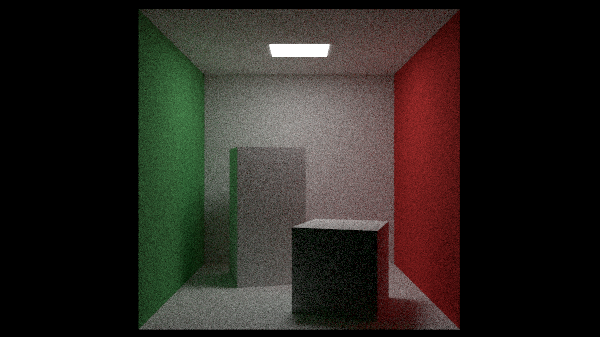
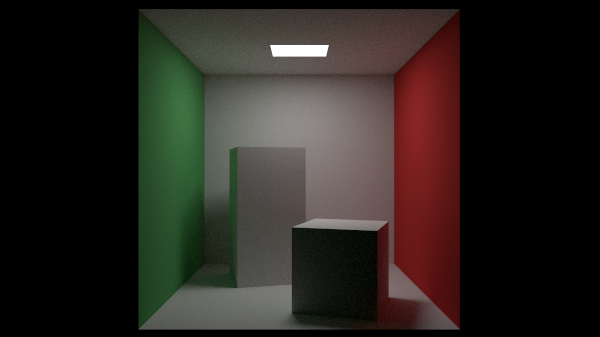
Fix Surface Acne

diff --git a/src/example/cornell_aluminum.cpp b/src/example/cornell_aluminum.cpp
@@ -13,7 +13,6 @@
 #include "texture.h"
 #include "aarect.h"
 #include "box.h"
-#include "constant_medium.h"
 
 HittableList gen_scene() {
     HittableList world;
@@ -21,21 +20,22 @@ HittableList gen_scene() {
     auto red   = std::make_shared<Lambertian>(Color(.65, .05, .05));
     auto white = std::make_shared<Lambertian>(Color(.73, .73, .73));
     auto green = std::make_shared<Lambertian>(Color(.12, .45, .15));
-    auto light = std::make_shared<DiffuseLight>(Color(7,7,7));
+    auto light = std::make_shared<DiffuseLight>(Color(15,15,15));
 
     world.Add(std::make_shared<AARect<math::Axis::kX>>(0, 555, 0, 555, 0, green));
     world.Add(std::make_shared<AARect<math::Axis::kX>>(0, 555, 0, 555, 555, red));
-    //world.Add(std::make_shared<AARect<math::Axis::kY>>(113, 443, 127, 432, 554, light));
-    world.Add(std::make_shared<FlipFace>(std::make_shared<AARect<math::Axis::kY>>(113, 443, 127, 432, 554, light)));
+    //world.Add(std::make_shared<AARect<math::Axis::kY>>(213, 343, 227, 332, 554, light));
+    world.Add(std::make_shared<FlipFace>(std::make_shared<AARect<math::Axis::kY>>(213, 343, 227, 332, 554, light)));
     world.Add(std::make_shared<AARect<math::Axis::kY>>(0, 555, 0, 555, 555, white));
     world.Add(std::make_shared<AARect<math::Axis::kY>>(0, 555, 0, 555, 0, white));
     world.Add(std::make_shared<AARect<math::Axis::kZ>>(0, 555, 0, 555, 555, white));
 
-    std::shared_ptr<Hittable> box1 = std::make_shared<Box>(Vec3f(192,165,295 + 82.5), Quaternion::AngleAxis(-15, Vec3f::up), Vec3f(82.5,165,82.5), white);
+    std::shared_ptr<Material> aluminum = std::make_shared<Metal>(Color(0.8, 0.85, 0.88), 0.0);
+    std::shared_ptr<Hittable> box1 = std::make_shared<Box>(Vec3f(192,165,295 + 82.5), Quaternion::AngleAxis(-15, Vec3f::up), Vec3f(82.5,165,82.5), aluminum);
+    world.Add(box1);
+
     std::shared_ptr<Hittable> box2 = std::make_shared<Box>(Vec3f(367,0 + 82.5,65 + 82.5), Quaternion::AngleAxis(18, Vec3f::up), Vec3f(82.5,82.5,82.5), white);
-    
-    world.Add(std::make_shared<ConstantMedium>(box1, 0.01, Color(0,0,0)));
-    world.Add(std::make_shared<ConstantMedium>(box2, 0.01, Color(1,1,1)));
+    world.Add(box2);
 
     return world;
 }
@@ -66,7 +66,7 @@ int main() {
     );
 
     auto lights = std::make_shared<HittableList>();
-    lights->Add(std::make_shared<AARect<math::Axis::kY>>(113, 443, 127, 432, 554, std::shared_ptr<Material>()));
+    lights->Add(std::make_shared<AARect<math::Axis::kY>>(213, 343, 227, 332, 554, std::shared_ptr<Material>()));
     r.Render(camera, image, lights);
 
     write_png_image("output.png", image.width(), image.height(), 3, (const void*)image.data().data(), 0);

diff --git a/src/example/cornell_glass.cpp b/src/example/cornell_glass.cpp
@@ -24,6 +24,7 @@ HittableList gen_scene() {
 
     world.Add(std::make_shared<AARect<math::Axis::kX>>(0, 555, 0, 555, 0, green));
     world.Add(std::make_shared<AARect<math::Axis::kX>>(0, 555, 0, 555, 555, red));
+    //world.Add(std::make_shared<AARect<math::Axis::kY>>(213, 343, 227, 332, 554, light));
     world.Add(std::make_shared<FlipFace>(std::make_shared<AARect<math::Axis::kY>>(213, 343, 227, 332, 554, light)));
     world.Add(std::make_shared<AARect<math::Axis::kY>>(0, 555, 0, 555, 555, white));
     world.Add(std::make_shared<AARect<math::Axis::kY>>(0, 555, 0, 555, 0, white));
@@ -32,7 +33,9 @@ HittableList gen_scene() {
     std::shared_ptr<Hittable> box1 = std::make_shared<Box>(Vec3f(192,165,295 + 82.5), Quaternion::AngleAxis(-15, Vec3f::up), Vec3f(82.5,165,82.5), white);
     world.Add(box1);
 
-    std::shared_ptr<Hittable> box2 = std::make_shared<Box>(Vec3f(367,0 + 82.5,65 + 82.5), Quaternion::AngleAxis(18, Vec3f::up), Vec3f(82.5,82.5,82.5), white);
+    auto glass = std::make_shared<Dielectric>(1.5);
+    std::shared_ptr<Hittable> box2 = std::make_shared<Sphere>(Vec3f(367,0 + 82.5,65 + 82.5), 90, glass);
+    
     world.Add(box2);
 
     return world;
@@ -40,14 +43,14 @@ HittableList gen_scene() {
 
 int main() {
     // Render
-    Renderer r(100, 50);
+    Renderer r(1000, 50);
     
     // World
     auto world = gen_scene();
     r.BuildBVH(world);
 
     // Image
-    constexpr auto aspect_ratio = 1.0;
+    constexpr auto aspect_ratio = 16.0 / 9.0;
     constexpr int image_width = 600;
     constexpr int image_height = static_cast<int>(image_width / aspect_ratio);
     FrameBuffer image(image_width, image_height);
@@ -60,16 +63,15 @@ int main() {
         40, //fov
         aspect_ratio, //aspect ratio
         0.0, //aperture
-        10, //dist_to_focus
-        0,
-        1
+        10 //dist_to_focus
     );
+    
 
     auto lights = std::make_shared<HittableList>();
     lights->Add(std::make_shared<AARect<math::Axis::kY>>(213, 343, 227, 332, 554, std::shared_ptr<Material>()));
     lights->Add(std::make_shared<Sphere>(Vec3f(190, 90, 190), 90, std::shared_ptr<Material>()));
 
-    r.Render(camera, image, lights, 8);
+    r.Render(camera, image, lights);
 
     write_png_image("output.png", image.width(), image.height(), 3, (const void*)image.data().data(), 0);
 }

diff --git a/src/util.h b/src/util.h
@@ -52,16 +52,22 @@ inline Color ACESToneMapping(Color color, XFloat adapted_lum=1.0f) {
     return (color * (A * color + B)) / (color * (C * color + D) + E);
 }
 
-math::Vec3<uint8_t> SdrColor(Color color, XFloat inv_samples_per_pixel) {
+inline void CanoicalColor(Color& color) {
     // Replace NaN components with zero. See explanation in Ray Tracing: The Rest of Your Life.
     if (color.r != color.r) color.r = 0.0;
     if (color.g != color.g) color.g = 0.0;
     if (color.b != color.b) color.b = 0.0;
+    
+    color.r = math::Clamp(color.r, 0.0, 1.0);
+    color.g = math::Clamp(color.g, 0.0, 1.0);
+    color.b = math::Clamp(color.b, 0.0, 1.0);
+}
 
+math::Vec3<uint8_t> SdrColor(Color color, XFloat inv_samples_per_pixel) {
     // Divide the color by the number of samples and gamma-correct for gamma=2.0.
     color *= inv_samples_per_pixel;
 
     color = LinearToGammaSpace(color);
     
-    return math::Vec3<uint8_t>(255 * math::Saturate(color.r), 255 * math::Saturate(color.g), 255 * math::Saturate(color.b));
+    return math::Vec3<uint8_t>(256 * math::Clamp(color.r, 0.0, 0.999), 256 * math::Clamp(color.g, 0.0, 0.999), 256 * math::Clamp(color.b, 0.0, 0.999));
 }

diff --git a/src/renderer.h b/src/renderer.h
@@ -110,7 +110,11 @@ void Renderer::CastRay(int begin, int end) {
             auto u = (i + math::random::Random<XFloat>()) * spec_.inv_width;
             auto v = (j + math::random::Random<XFloat>()) * spec_.inv_height;
             Ray r = spec_.camera->CastRay(u, v);
-            pixel_color += Trace(r, spec_.max_depth);
+            
+            Color color = Trace(r, spec_.max_depth);
+            CanoicalColor(color);
+
+            pixel_color += color;
         }
 
         spec_.image->Set(i, (spec_.height - 1) - j, SdrColor(pixel_color, spec_.inv_samples_per_pixel));
@@ -160,7 +164,7 @@ void Renderer::Render(const Camera& camera, FrameBuffer& image, std::shared_ptr<
                     begin = rs.begin;
                     end = rs.end;
                     jobs.pop_back();
-                    std::cerr << jobs.size() << '\r';
+                    std::cerr << jobs.size() << "      \r";
                 }
                 CastRay(begin, end);
             }

diff --git a/src/example/final.cpp b/src/example/final.cpp
@@ -79,7 +79,7 @@ HittableList gen_scene() {
 
 int main() {
     // Render
-    Renderer r(10000, 50, Color::zero);
+    Renderer r(1000, 50, Color::zero);
     
     // World
     auto world = gen_scene();
@@ -104,7 +104,9 @@ int main() {
         1
     );
 
-    r.Render(camera, image, nullptr, 10);
+    auto lights = std::make_shared<HittableList>();
+    lights->Add(std::make_shared<AARect<math::Axis::kY>>(123, 423, 147, 412, 554, std::shared_ptr<Material>()));
+    r.Render(camera, image, lights, 10);
 
     write_png_image("output.png", image.width(), image.height(), 3, (const void*)image.data().data(), 0);
 }

diff --git a/src/pdf.h b/src/pdf.h
@@ -107,7 +107,12 @@ public:
     }
 
     virtual Vec3f Generate() const override {
-        return math::random::UnitVector();
+        auto r1 = math::random::Random<XFloat>();
+        auto r2 = math::random::Random<XFloat>();
+        auto x = cos(2 * math::kPI * r1) * 2 * sqrt(r2 * (1-r2));
+        auto y = sin(2 * math::kPI * r1) * 2 * sqrt(r2 * (1-r2));
+        auto z = 1 - 2 * r2;
+        return Vec3f(x, y, z);
     }
 
 public:

diff --git a/src/example/cornell.cpp b/src/example/cornell.cpp
@@ -64,7 +64,9 @@ int main() {
         10 //dist_to_focus
     );
 
-    r.Render(camera, image);
+    auto lights = std::make_shared<HittableList>();
+    lights->Add(std::make_shared<AARect<math::Axis::kY>>(213, 343, 227, 332, 554, std::shared_ptr<Material>()));
+    r.Render(camera, image, lights);
 
     write_png_image("output.png", image.width(), image.height(), 3, (const void*)image.data().data(), 0);
 }

diff --git a/README.md b/README.md
@@ -23,6 +23,10 @@ Thanks [Ray Tracing in One Weekend](https://raytracing.github.io/) for such grea
 
 ![cornell](samples/cornell.png)
 
+![cornell](samples/cornell_aluminum.png)
+
+![cornell](samples/cornell_glass.png)
+
 **Cornell Box with blocks of smoke**
 
 ![smoke](samples/cornell_smoke.png)
